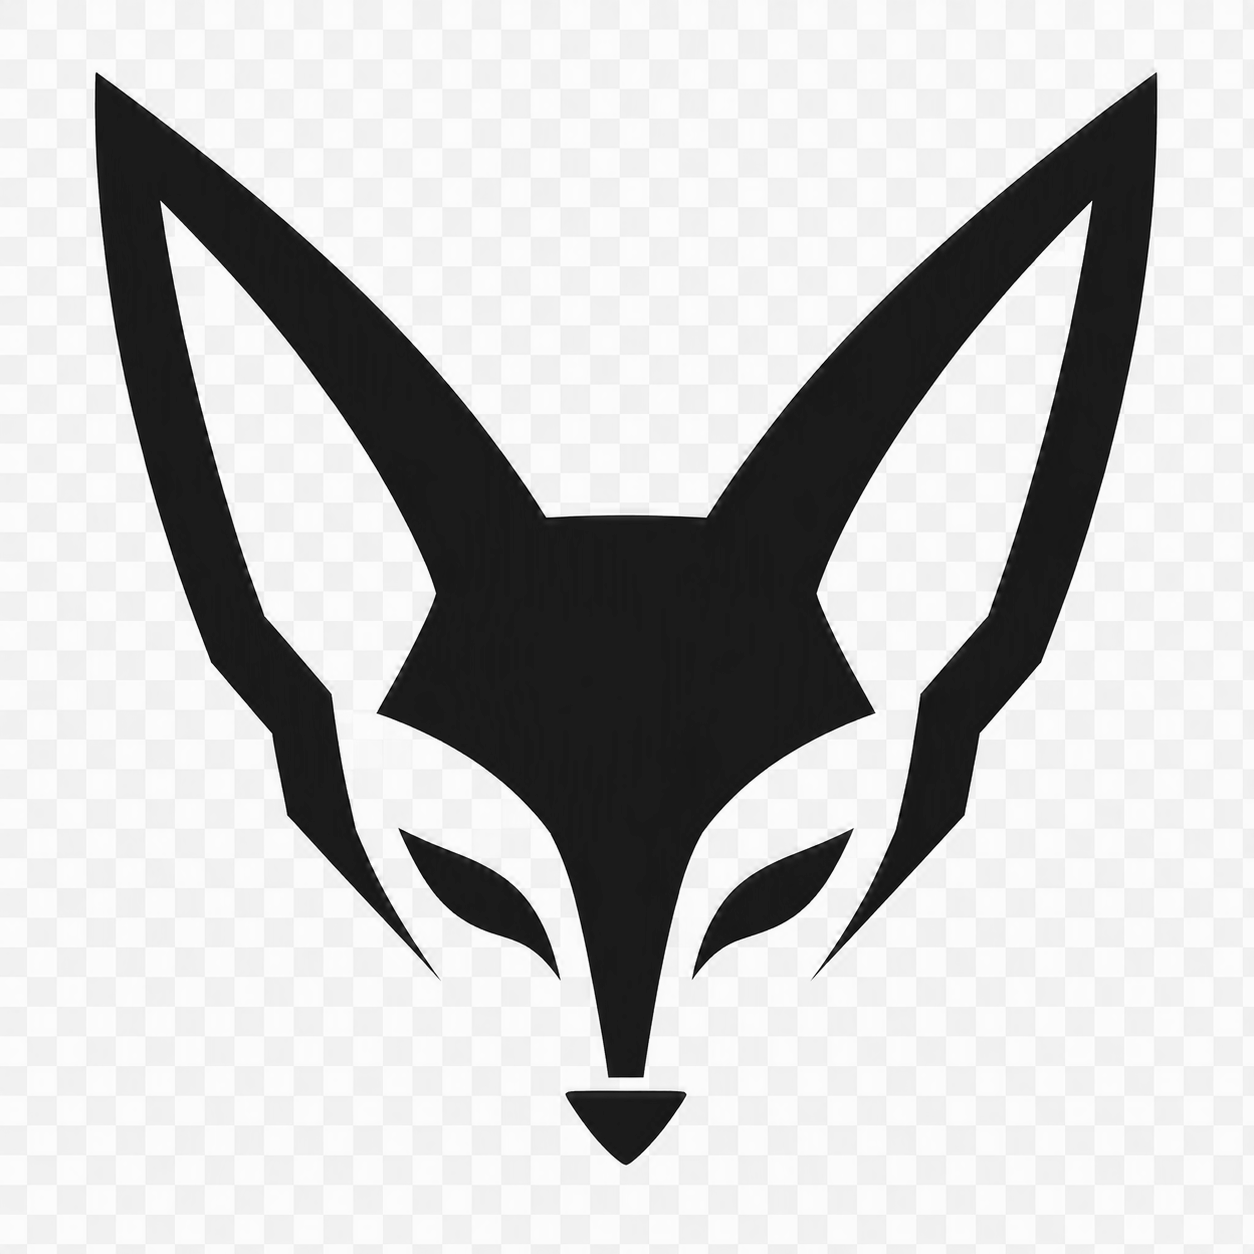
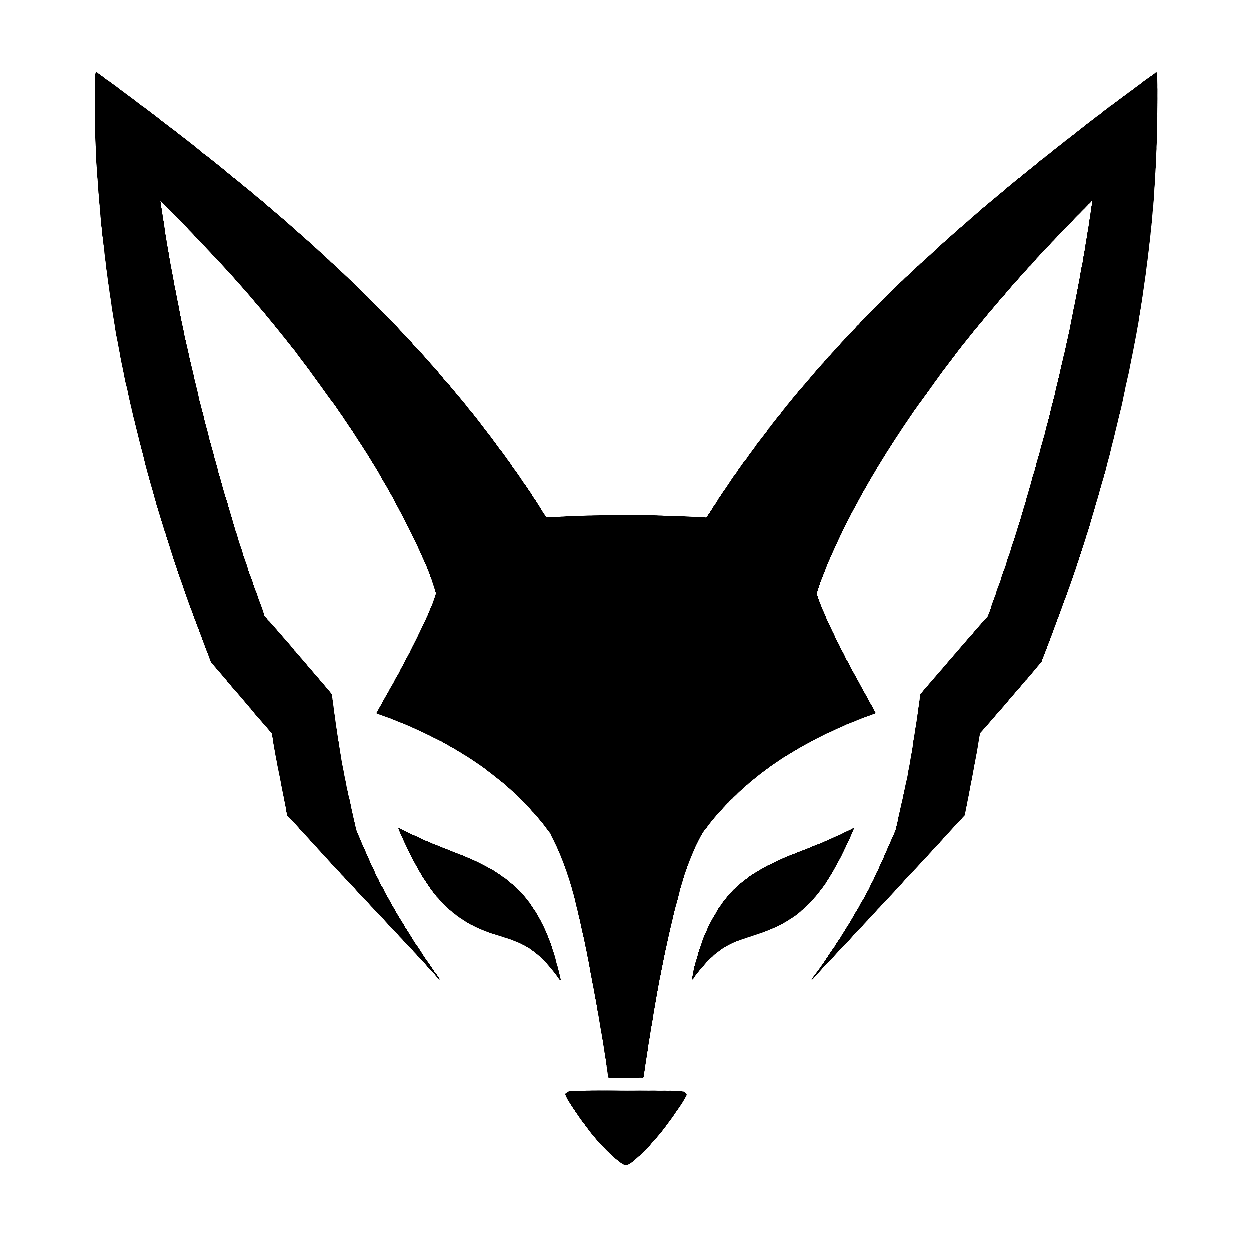
fix(brand): fully matte fennec background + white mascot in dark mode
Re-matte with a hard alpha threshold to remove the near-white haze (~659k faint
pixels) that read as a leftover background box on non-white surfaces. Mascot now
renders white in dark mode (dark:invert); logo tiles stay white on the brand
gradient. Bump asset query (?v=2) to bust browser cache.

Changed region(s): [[0.0622, 0.0622, 0.933, 0.933]]

diff --git a/packages/ui/src/components/FennecMark.tsx b/packages/ui/src/components/FennecMark.tsx
@@ -13,7 +13,7 @@ interface FennecMarkProps {
  * On light surfaces it renders as-is; on the brand gradient add `brightness-0
  * invert` via className to render it white.
  */
-export function FennecMark({ size = 24, className = "", title, src = "/fennec.png" }: FennecMarkProps) {
+export function FennecMark({ size = 24, className = "", title, src = "/fennec.png?v=2" }: FennecMarkProps) {
   return (
     // eslint-disable-next-line @next/next/no-img-element -- shared package, no next/image config
     <img

diff --git a/packages/ui/src/components/FennecMascot.tsx b/packages/ui/src/components/FennecMascot.tsx
@@ -15,7 +15,7 @@ interface FennecMascotProps {
 export function FennecMascot({ size = 80, className = "", message }: FennecMascotProps) {
   return (
     <div className={`flex flex-col items-center gap-3 ${className}`}>
-      <FennecMark size={size} className="opacity-80" title="Fennex" />
+      <FennecMark size={size} className="opacity-80 dark:opacity-90 dark:invert" title="Fennex" />
       {message && <p className="text-center text-sm text-muted-foreground">{message}</p>}
     </div>
   );